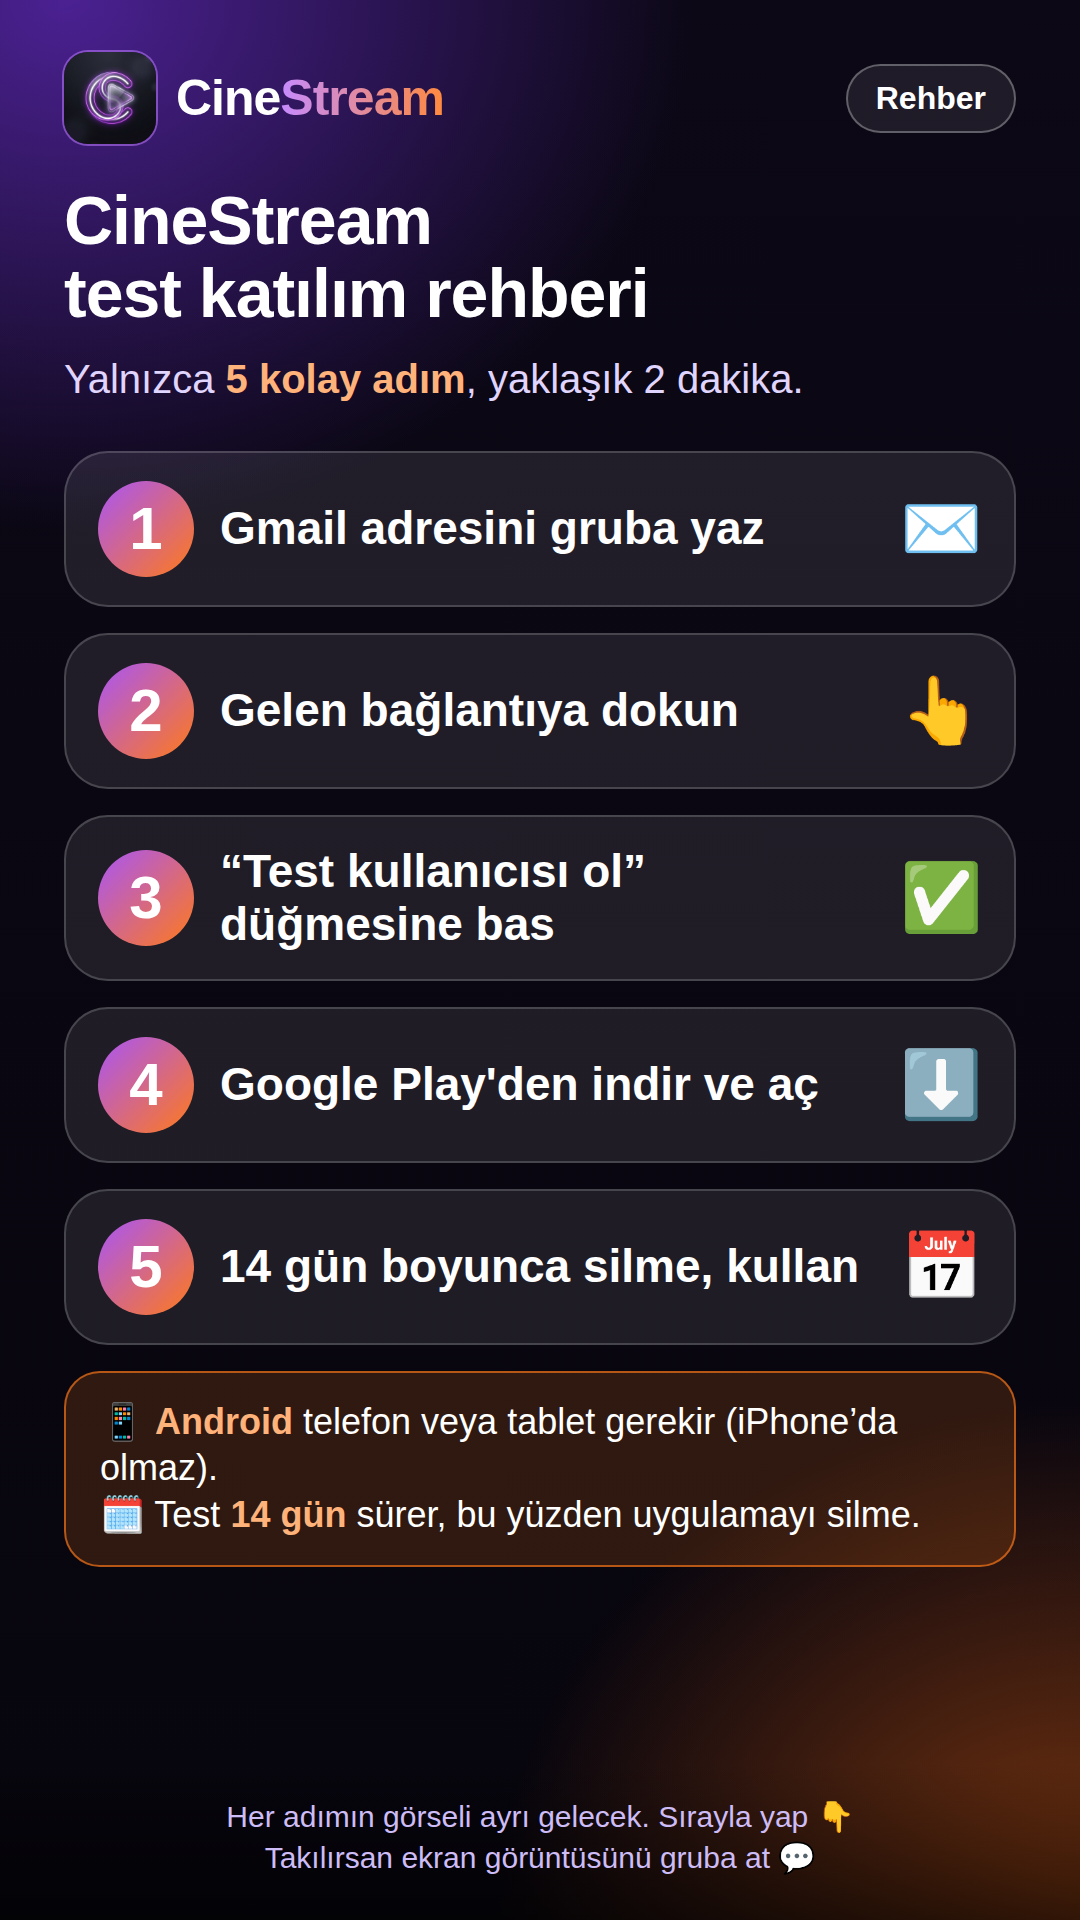
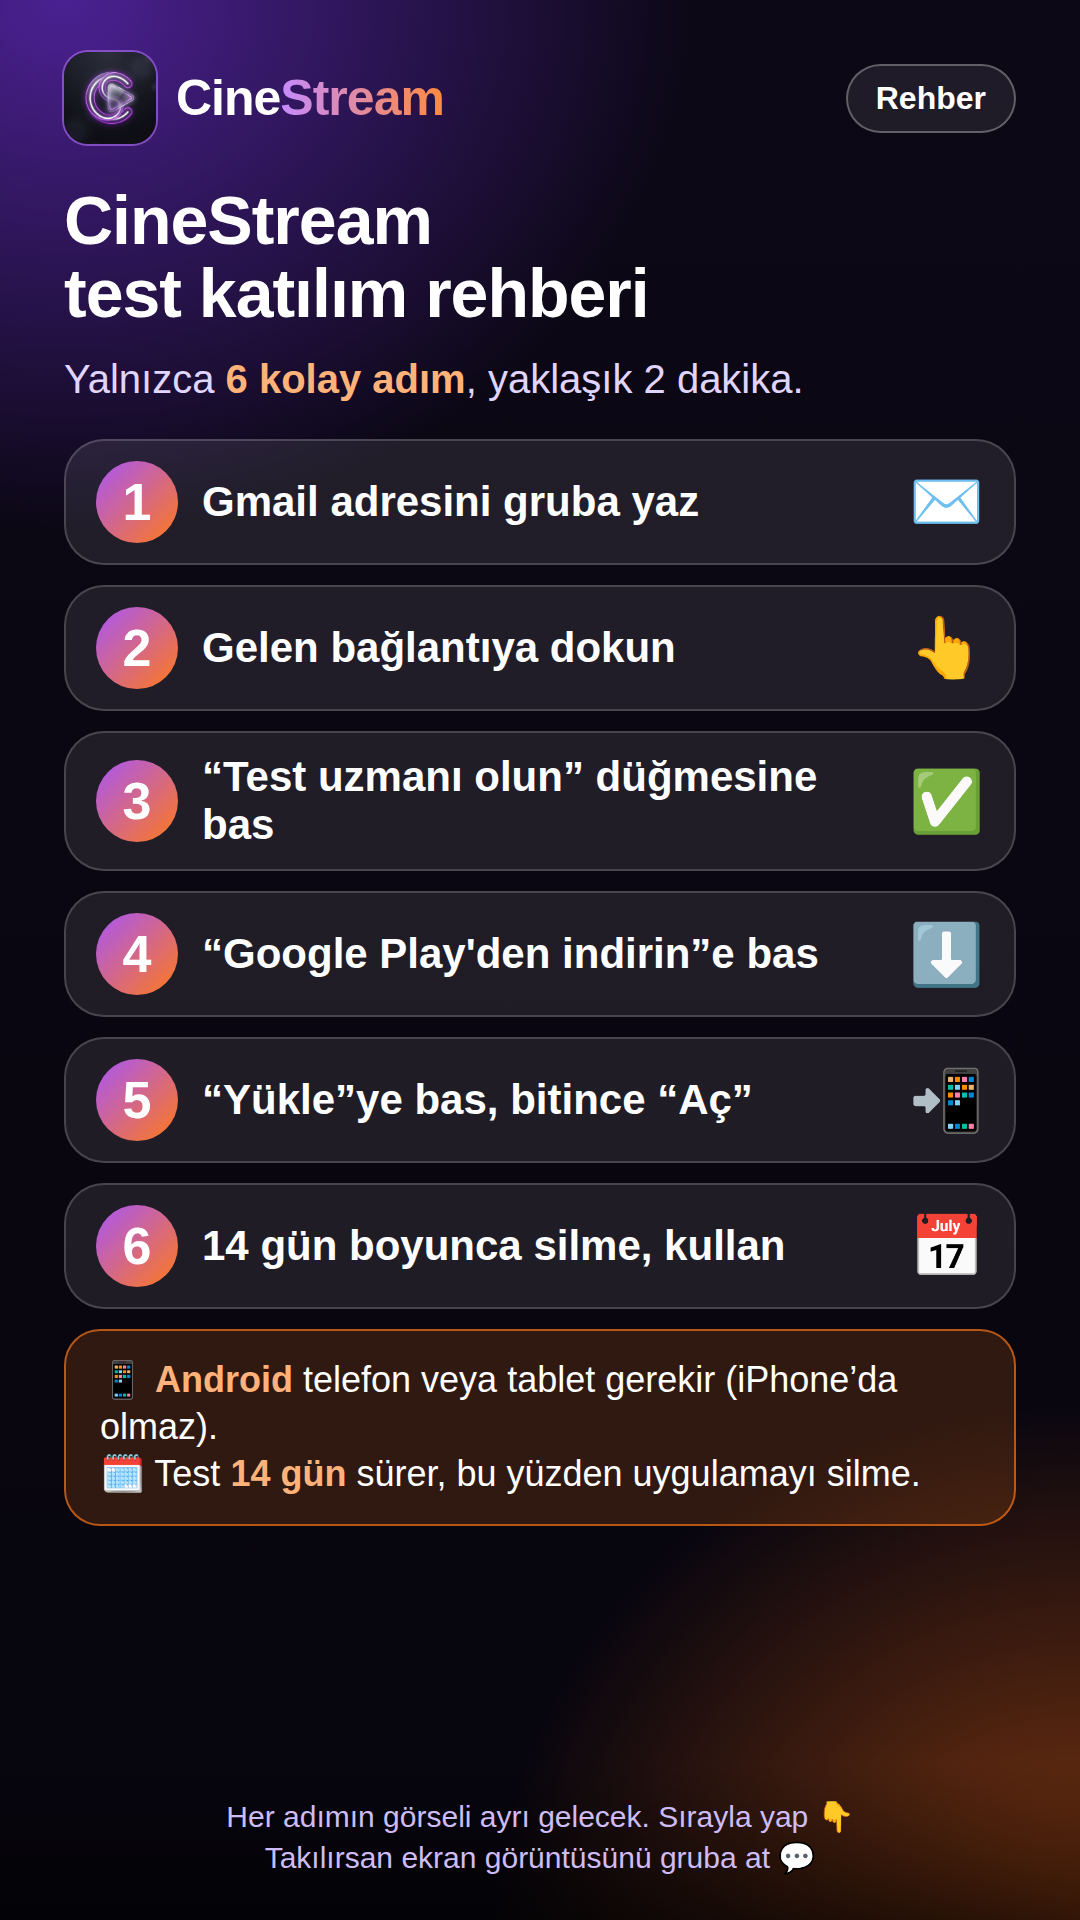
Test rehberi: gerçek ekran görüntüleriyle (bas / basma işaretli) yenilendi
Adım 3-5 gerçek telefon ekranlarıyla: "Test uzmanı olun", "Google Play'den indirin",
"Yükle/Aç". Basılacak yerler turuncu, basılmayacak yerler ("Programdan ayrıl", "Kaldır")
kırmızı, doğru yerde olduğunu gösteren yeşil işaretli. Etiketler ekran görüntüsünün dışında.
Sorun çözümleri ve 14 gün görselleri güncellendi (8 görsel).

Claude-Session: https://claude.ai/code/session_01ER33523VoiWUX5yh7Ck2TW

diff --git a/play-store/test-rehberi/uret.py b/play-store/test-rehberi/uret.py
@@ -62,6 +62,14 @@ h1{font-size:68px;line-height:1.08;font-weight:800;letter-spacing:-1px}
  box-shadow:0 8px 24px rgba(0,0,0,.35);white-space:nowrap}
 .finger{position:absolute;font-size:96px;line-height:1;filter:drop-shadow(0 6px 10px rgba(0,0,0,.45))}
 
+
+.mk{position:absolute;border:6px solid #ff7a1a;border-radius:26px;box-shadow:0 0 0 12px rgba(255,122,26,.30)}
+.mk.no{border-color:#e02020;box-shadow:0 0 0 12px rgba(224,32,32,.30)}
+.mk.ok{border-color:#22c55e;box-shadow:0 0 0 12px rgba(34,197,94,.30)}
+.lab{position:absolute;color:#fff;font-weight:800;font-size:28px;line-height:1;padding:12px 20px;border-radius:26px;background:#ff7a1a;white-space:nowrap;box-shadow:0 8px 24px rgba(0,0,0,.45)}
+.lab.no{background:#e02020}
+.lab.ok{background:#16a34a}
+
 /* play düğmeleri */
 .gbtn{background:#01875f;color:#fff;font-weight:800;text-align:center;border-radius:30px}
 .gout{border:3px solid #01875f;color:#01875f;font-weight:800;text-align:center;border-radius:30px;background:#fff}
@@ -80,7 +88,7 @@ h1{font-size:68px;line-height:1.08;font-weight:800;letter-spacing:-1px}
 
 def page(step, title, sub, body, foot="Telefonuna göre yazılar küçük farklar gösterebilir.<br>Takılırsan ekran görüntüsünü gruba at 💬"):
     badge = f'<div class="badge">{step}</div>' if step else ""
-    pill = f'<div class="pill">Adım {step}/5</div>' if step else '<div class="pill">Rehber</div>'
+    pill = f'<div class="pill">Adım {step}/6</div>' if step else '<div class="pill">Rehber</div>'
     return f"""<!doctype html><html lang="tr"><head><meta charset="utf-8"><style>{CSS}</style></head><body>
 <div class="top"><div class="brand"><img src="icon.png"><b>Cine<span>Stream</span></b></div>{pill}</div>
 <div class="hero"><div class="herorow">{badge}<h1>{title}</h1></div><div class="sub">{sub}</div></div>
@@ -92,33 +100,83 @@ def status(dark=False):
     return '<div class="sb"><span>12:30</span><span>▂▄▆ 🔋</span></div>'
 
 
+# ---------------------------------------------------------------- gerçek ekran görüntüsü yardımcıları
+SHOTS = HERE / "ekranlar"
+SRC_W, SRC_H = 900, 2000  # işaret koordinatları bu ölçekte verilir (görüntüler 1080x2400, aynı oran)
+
+
+def shot(name, y0, y1, width, marks, gutter=0):
+    """Gerçek ekran görüntüsünün y0..y1 bandı. İşaretler çerçevenin içinde, etiketler dışında (yazıların üstüne binmez).
+    marks: (tür, x0, y0, x1, y1, etiket, yer) ; yer: 'right' (sağ yan) ya da 'below' (altta)."""
+    s = width / SRC_W
+    h = (y1 - y0) * s
+    col = {"tap": "#ff7a1a", "no": "#e02020", "ok": "#16a34a"}
+    pad = 10
+    frame = [f'<div style="position:relative;width:{width}px;height:{h:.0f}px;border-radius:40px;overflow:hidden;'
+             f'border:3px solid #3a3a48;background:#000;box-shadow:0 30px 80px rgba(0,0,0,.6),0 0 90px rgba(168,85,247,.25)">'
+             f'<img src="file://{SHOTS / name}" style="position:absolute;left:0;top:{-y0 * s:.1f}px;width:{width}px">']
+    outside = []
+    for kind, x0, ym0, x1, ym1, label, where in marks:
+        left, top = (x0 - pad) * s, (ym0 - y0 - pad) * s
+        w, hh = (x1 - x0 + 2 * pad) * s, (ym1 - ym0 + 2 * pad) * s
+        frame.append(f'<div class="mk {kind}" style="left:{left:.0f}px;top:{top:.0f}px;width:{w:.0f}px;height:{hh:.0f}px"></div>')
+        c = col[kind]
+        if where == "right":
+            cy = top + hh / 2
+            x_from = left + w
+            x_to = width + 30
+            outside.append(f'<div style="position:absolute;left:{x_from:.0f}px;top:{cy - 3:.0f}px;width:{x_to - x_from:.0f}px;height:6px;background:{c};border-radius:3px"></div>')
+            outside.append(f'<div class="lab {kind}" style="left:{x_to:.0f}px;top:{cy - 30:.0f}px">{label}</div>')
+        else:
+            cx = left + w / 2
+            y_from = top + hh
+            y_to = h + 34
+            outside.append(f'<div style="position:absolute;left:{cx - 3:.0f}px;top:{y_from:.0f}px;width:6px;height:{y_to - y_from:.0f}px;background:{c};border-radius:3px"></div>')
+            outside.append(f'<div class="lab {kind}" style="left:{cx:.0f}px;top:{y_to:.0f}px;transform:translateX(-50%)">{label}</div>')
+    frame.append("</div>")
+    total_h = h + (110 if any(m[6] == "below" for m in marks) else 0)
+    return (f'<div style="position:relative;width:{width + gutter}px;height:{total_h:.0f}px;flex:none">'
+            + "".join(frame) + "".join(outside) + "</div>")
+
+
+def legend():
+    chip = ('<div style="display:flex;align-items:center;gap:14px;font-size:32px;font-weight:700">'
+            '<div style="width:34px;height:34px;border-radius:10px;background:{c}"></div>{t}</div>')
+    return ('<div style="display:flex;justify-content:center;gap:34px;margin-top:26px;flex-wrap:wrap">'
+            + chip.format(c="#ff7a1a", t="Buna bas")
+            + chip.format(c="#e02020", t="Basma")
+            + chip.format(c="#22c55e", t="Doğru yerdesin")
+            + "</div>")
+
+
 # ---------------------------------------------------------------- 0. kapak
 def s0():
     rows = [
         ("1", "Gmail adresini gruba yaz", "✉"),
         ("2", "Gelen bağlantıya dokun", "👆"),
-        ("3", "“Test kullanıcısı ol” düğmesine bas", "✅"),
-        ("4", "Google Play'den indir ve aç", "⬇"),
-        ("5", "14 gün boyunca silme, kullan", "📅"),
+        ("3", "“Test uzmanı olun” düğmesine bas", "✅"),
+        ("4", "“Google Play'den indirin”e bas", "⬇"),
+        ("5", "“Yükle”ye bas, bitince “Aç”", "📲"),
+        ("6", "14 gün boyunca silme, kullan", "📅"),
     ]
     items = "".join(
-        f'<div style="display:flex;align-items:center;gap:26px;margin:0 64px 26px;padding:28px 32px;border-radius:44px;'
+        f'<div style="display:flex;align-items:center;gap:24px;margin:0 64px 20px;padding:20px 30px;border-radius:40px;'
         f'background:rgba(255,255,255,.09);border:2px solid rgba(255,255,255,.18)">'
-        f'<div style="flex:none;width:96px;height:96px;border-radius:48px;background:linear-gradient(135deg,#a855f7,#ff7a1a);'
-        f'display:flex;align-items:center;justify-content:center;font-size:60px;font-weight:800">{n}</div>'
-        f'<div style="font-size:46px;font-weight:800;line-height:1.15;flex:1">{t}</div>'
-        f'<div style="font-size:66px">{e}</div></div>'
+        f'<div style="flex:none;width:82px;height:82px;border-radius:41px;background:linear-gradient(135deg,#a855f7,#ff7a1a);'
+        f'display:flex;align-items:center;justify-content:center;font-size:52px;font-weight:800">{n}</div>'
+        f'<div style="font-size:42px;font-weight:800;line-height:1.15;flex:1">{t}</div>'
+        f'<div style="font-size:60px">{e}</div></div>'
         for n, t, e in rows
     )
     info = (
-        '<div class="warn" style="margin-top:14px">📱 <b>Android</b> telefon veya tablet gerekir (iPhone’da olmaz).<br>'
+        '<div class="warn" style="margin-top:10px">📱 <b>Android</b> telefon veya tablet gerekir (iPhone’da olmaz).<br>'
         '🗓 Test <b>14 gün</b> sürer, bu yüzden uygulamayı silme.</div>'
     )
     return page(
         None,
         "CineStream<br>test katılım rehberi",
-        "Yalnızca <b>5 kolay adım</b>, yaklaşık 2 dakika.",
-        f'<div style="margin-top:46px">{items}</div>{info}',
+        "Yalnızca <b>6 kolay adım</b>, yaklaşık 2 dakika.",
+        f'<div style="margin-top:34px">{items}</div>{info}',
         "Her adımın görseli ayrı gelecek. Sırayla yap 👇<br>Takılırsan ekran görüntüsünü gruba at 💬",
     )
 
@@ -184,68 +242,46 @@ def s2():
                 f'<div class="center">{phone}</div>{note}')
 
 
-# ---------------------------------------------------------------- 3. test kullanıcısı ol
+# ---------------------------------------------------------------- 3. test uzmanı olun (gerçek ekran)
 def s3():
-    icon = '<img class="appicon" src="icon.png" style="width:150px;height:150px">'
-    urlbar = '<div style="margin:18px 28px 0;height:64px;border-radius:32px;background:#eef0f4;display:flex;align-items:center;padding-left:26px;font-size:26px;color:#3c4043">🔒 play.google.com</div>'
-    left = f"""
-<div><div class="cap"><i>1</i>Bu düğmeye bas</div>
-<div class="phone" style="zoom:.84"><div class="screen">
-  {status()}{urlbar}
-  <div style="text-align:center;padding-top:120px">{icon}
-    <div style="font-size:44px;font-weight:800;margin-top:20px">CineStream</div>
-    <div style="font-size:28px;color:#5f6368;margin:14px 50px 0;line-height:1.35">Bu uygulamanın test sürümüne katılabilirsiniz</div>
-    <div class="hl" style="margin:62px 60px 0"><div class="gbtn" style="height:96px;line-height:96px;font-size:38px;border-radius:32px">Test kullanıcısı ol</div>
-      <div class="finger" style="right:20px;bottom:-80px">👆</div></div>
-  </div>
-</div></div></div>"""
-    right = f"""
-<div><div class="cap"><i>2</i>Bunu görürsen tamam</div>
-<div class="phone" style="zoom:.84"><div class="screen">
-  {status()}{urlbar}
-  <div style="text-align:center;padding-top:130px">
-    <div style="width:150px;height:150px;border-radius:75px;background:#e6f4ea;display:inline-flex;align-items:center;justify-content:center;font-size:96px;color:#01875f">✔</div>
-    <div style="font-size:40px;font-weight:800;margin-top:26px">Test kullanıcısı oldunuz</div>
-    <div style="font-size:28px;color:#5f6368;margin:14px 46px 0;line-height:1.35">Şimdi uygulamayı indirebilirsiniz</div>
-    <div class="hl" style="margin:62px 60px 0"><div class="gout" style="height:92px;line-height:86px;font-size:34px;border-radius:32px">Google Play'den indir</div></div>
-  </div>
-</div></div></div>"""
-    note = '<div class="warn">✅ Yeşil işareti görmediysen düğmeye bir daha bas.<br>🔑 Telefonda <b>Gmail’inle giriş yapılmış</b> olmalı.</div>'
-    return page(3, "“Test kullanıcısı ol”<br>düğmesine bas", "Açılan sayfada tek düğme var.", f'<div class="center" style="gap:20px;margin-top:30px">{left}{right}</div>{note}')
+    img = shot("1-davet.jpg", 740, 1960, 600, [
+        ("tap", 50, 1768, 473, 1882, "☝ Bu mavi düğmeye bas", "right"),
+    ], gutter=360)
+    note = ('<div class="warn">📜 Sayfa uzundur: <b>en aşağı kaydır</b>, mavi düğme en altta.<br>'
+            '🔑 Telefonda <b>Gmail’inle giriş yapılmış</b> olmalı.</div>')
+    return page(3, "“Test uzmanı olun”<br>düğmesine bas", "Gruptaki bağlantıyı açınca bu sayfa gelir.",
+                f'{legend()}<div class="center" style="margin-top:26px">{img}</div>{note}')
 
 
-# ---------------------------------------------------------------- 4. indir ve aç
+# ---------------------------------------------------------------- 4. Google Play'den indirin (gerçek ekran)
 def s4():
-    icon = '<img class="appicon" src="icon.png" style="width:130px;height:130px">'
-    shots = '<div style="display:flex;gap:14px;padding:0 26px;margin-top:44px">' + ''.join(
-        '<div style="flex:1;height:470px;border-radius:22px;background:linear-gradient(160deg,#2a1450,#14101f)"></div>' for _ in range(3)) + '</div>'
-    head = f"""<div style="padding:22px 30px 0;font-size:40px;color:#5f6368">←</div>
-  <div style="display:flex;gap:26px;align-items:center;padding:20px 30px 0">{icon}
-    <div><div style="font-size:42px;font-weight:800">CineStream</div><div style="font-size:26px;color:#01875f;font-weight:700;margin-top:6px">Canlı TV, film ve dizi</div></div></div>"""
-    left = f"""
-<div><div class="cap"><i>1</i>“Yükle”ye bas</div>
-<div class="phone" style="zoom:.84"><div class="screen">
-  {status()}{head}
-  <div class="hl" style="margin:50px 40px 0"><div class="gbtn" style="height:92px;line-height:92px;font-size:38px;border-radius:32px">Yükle</div>
-    <div class="finger" style="right:30px;bottom:-78px">👆</div></div>
-  {shots}
-</div></div></div>"""
-    right = f"""
-<div><div class="cap"><i>2</i>Bitince “Aç”a bas</div>
-<div class="phone" style="zoom:.84"><div class="screen">
-  {status()}{head}
-  <div style="display:flex;gap:30px;margin:50px 40px 0">
-    <div class="gout" style="flex:1;height:92px;line-height:86px;font-size:34px;color:#5f6368;border-color:#c4c7cc;border-radius:32px">Kaldır</div>
-    <div class="hl" style="flex:1"><div class="gbtn" style="height:92px;line-height:92px;font-size:38px;border-radius:32px">Aç</div>
-      <div class="finger" style="right:10px;bottom:-78px">👆</div></div></div>
-  {shots}
-</div></div></div>"""
-    note = '<div class="warn">⏳ <b>Yükle düğmesi yoksa</b> bir iki saat bekle, sonra 2. adımdaki bağlantıya tekrar dokun.<br>Play Store’da arayınca çıkmayabilir: <b>hep bağlantıdan gir.</b></div>'
-    return page(4, "Google Play’den<br>indir ve aç", "Telefonun seni Google Play’e götürür.", f'<div class="center" style="gap:20px;margin-top:30px">{left}{right}</div>{note}')
+    img = shot("2-uzman.jpg", 100, 1900, 480, [
+        ("ok", 208, 137, 652, 229, "✔ Bunu görmelisin", "right"),
+        ("tap", 366, 515, 788, 562, "☝ Buna bas", "right"),
+        ("no", 28, 1707, 458, 1860, "✖ BASMA!", "right"),
+    ], gutter=400)
+    note = ('<div class="warn" style="margin-top:22px">⚠ En alttaki <b>“Programdan ayrıl”</b> düğmesine <b>basma</b>, testten çıkarsın.<br>'
+            '✅ Yeşil “Siz bir test uzmanısınız” yazısı: <b>katıldın</b>, tamam.</div>')
+    return page(4, "“Google Play’den<br>indirin”e bas", "Katıldıktan sonra bu ekran gelir.",
+                f'{legend()}<div class="center" style="margin-top:22px">{img}</div>{note}')
 
 
-# ---------------------------------------------------------------- 5. 14 gün
+# ---------------------------------------------------------------- 5. Yükle / Aç (gerçek ekran)
 def s5():
+    img = shot("3-play.jpg", 250, 1000, 640, [
+        ("no", 34, 868, 432, 980, "✖ BASMA!", "below"),
+        ("tap", 466, 868, 866, 980, "☝ Yüklenince buna bas", "below"),
+    ])
+    steps = ('<div class="card" style="margin-top:34px"><p style="font-size:38px;line-height:1.4">'
+             '1⃣ İlk önce burada mavi <b>“Yükle”</b> düğmesi olur. Ona bas.<br>'
+             '2⃣ Yükleme bitince düğme <b>“Aç”</b> olur. Ona bas.<br>'
+             '3⃣ <b>“Kaldır”</b> uygulamayı siler, <b>basma</b>.</p></div>')
+    return page(5, "“Yükle”ye bas,<br>bitince “Aç”a bas", "Adı “Erken Erişim” yazar, bu normaldir.",
+                f'{legend()}<div class="center" style="margin-top:26px">{img}</div>{steps}')
+
+
+# ---------------------------------------------------------------- 6. 14 gün
+def s6():
     days = "".join(
         f'<div style="width:124px;height:124px;border-radius:30px;background:rgba(255,255,255,.1);border:2px solid rgba(255,255,255,.25);'
         f'display:flex;flex-direction:column;align-items:center;justify-content:center;font-size:38px;font-weight:800">'
@@ -260,7 +296,7 @@ def s5():
     rules = (
         '<div class="card" style="margin-top:40px"><div style="font-size:42px;line-height:1.3;color:#e8defc">'
         + rule("<b style='color:#ffb27a'>Uygulamayı silme</b>")
-        + rule("Play Store’da <b style='color:#ffb27a'>testten çıkma</b>")
+        + rule("Play Store’da <b style='color:#ffb27a'>“Programdan ayrıl”a basma</b>")
         + rule("Arada aç: canlı TV, film, dizi <b style='color:#ffb27a'>dene</b>, favori ekle")
         + rule("Hata görürsen <b style='color:#ffb27a'>ekran görüntüsünü gruba at</b>")
         + '</div></div>'
@@ -269,20 +305,20 @@ def s5():
         'background:linear-gradient(135deg,rgba(168,85,247,.55),rgba(255,122,26,.5));border:2px solid rgba(255,255,255,.3)">'
         '🎉 Hepsi bu kadar!<br><span style="font-size:38px;font-weight:700">Katkın için çok teşekkürler 💜</span></div>'
     )
-    return page(5, "14 gün boyunca<br>silme, kullan", "Başka bir şey yapman gerekmiyor.", cal + rules)
+    return page(6, "14 gün boyunca<br>silme, kullan", "Başka bir şey yapman gerekmiyor.", cal + rules)
 
 
-# ---------------------------------------------------------------- 6. sorun giderme
-def s6():
+# ---------------------------------------------------------------- 7. sorun giderme
+def s7():
     def card(n, t, d):
         return f'<div class="card" style="margin-top:26px"><h2>{n} {t}</h2><p>{d}</p></div>'
     body = (
         card("😕", "Sayfa açılmıyor ya da “katılamazsınız” diyor",
              "Yanlış hesapla açıyor olabilirsin. Bağlantıyı açan uygulamada <b>sağ üstteki yuvarlak resme</b> dokunup <b>gruba yazdığın Gmail’i</b> seç. Hâlâ olmuyorsa gruba Gmail adresini tekrar yaz.")
         + card("🔍", "Play Store’da uygulamayı bulamıyorum",
-               "Arayınca çıkmaz, normal. <b>Gruptaki bağlantıdan</b> gir ve “Google Play’den indir”e bas. Katıldıktan sonra çıkması birkaç saat sürebilir.")
+               "Arayınca çıkmaz, normal. <b>Gruptaki bağlantıdan</b> gir. Katıldıktan sonra çıkması birkaç saat sürebilir.")
         + card("🔄", "Güncelleme geldi",
-               "Play Store ➜ <b>sağ üstte yuvarlak resim</b> ➜ <b>Uygulamaları ve cihazı yönet</b> ➜ <b>CineStream</b> yanındaki <b>Güncelle</b>.")
+               "Play Store ➜ <b>sağ üstte yuvarlak resim</b> ➜ <b>Uygulamaları ve cihazı yönet</b> ➜ <b>CineStream AI TV</b> yanındaki <b>Güncelle</b>.")
         + card("📱", "iPhone kullanıyorum",
                "Üzgünüz, uygulama <b>yalnızca Android</b>’de çalışır. Android telefonu olan bir yakınından yardım isteyebilirsin.")
     )
@@ -294,12 +330,12 @@ SLIDES = [
     ("00-baslangic.png", s0),
     ("01-gmail-adresi.png", s1),
     ("02-baglantiya-dokun.png", s2),
-    ("03-test-kullanicisi-ol.png", s3),
-    ("04-indir-ve-ac.png", s4),
-    ("05-14-gun-kullan.png", s5),
-    ("06-sorun-cozumleri.png", s6),
+    ("03-test-uzmani-olun.png", s3),
+    ("04-google-play-indirin.png", s4),
+    ("05-yukle-ve-ac.png", s5),
+    ("06-14-gun-kullan.png", s6),
+    ("07-sorun-cozumleri.png", s7),
 ]
-
 
 def main():
     only = set(sys.argv[1:])
